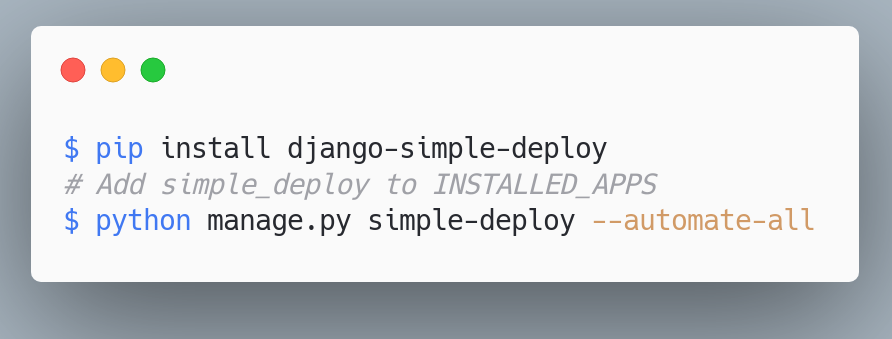
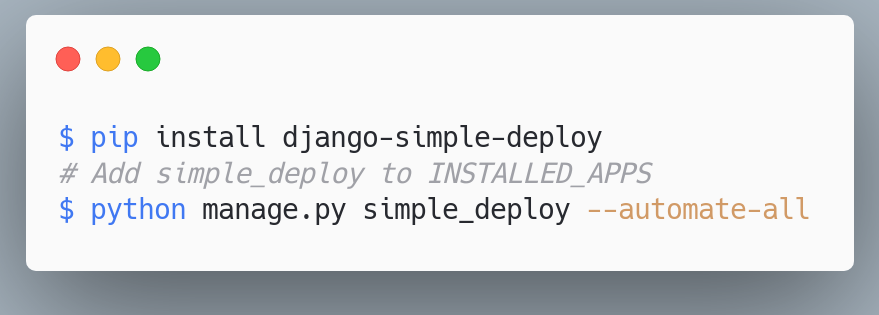
Fixed example command.

Changed region(s): [[0.0307, 0.0286, 0.9829, 0.8857]]

diff --git a/README.md b/README.md
@@ -10,7 +10,7 @@ If you have a relatively simple Django project that runs locally, you can deploy
 By default, the above command will deploy your project to Heroku. You can use the `--platform` argument to deploy to Azure instead:
 
 ```
-$ python manage.py simple-deploy --automate-all --platform azure
+$ python manage.py simple_deploy --automate-all --platform azure
 ```
 
 Prerequisites
